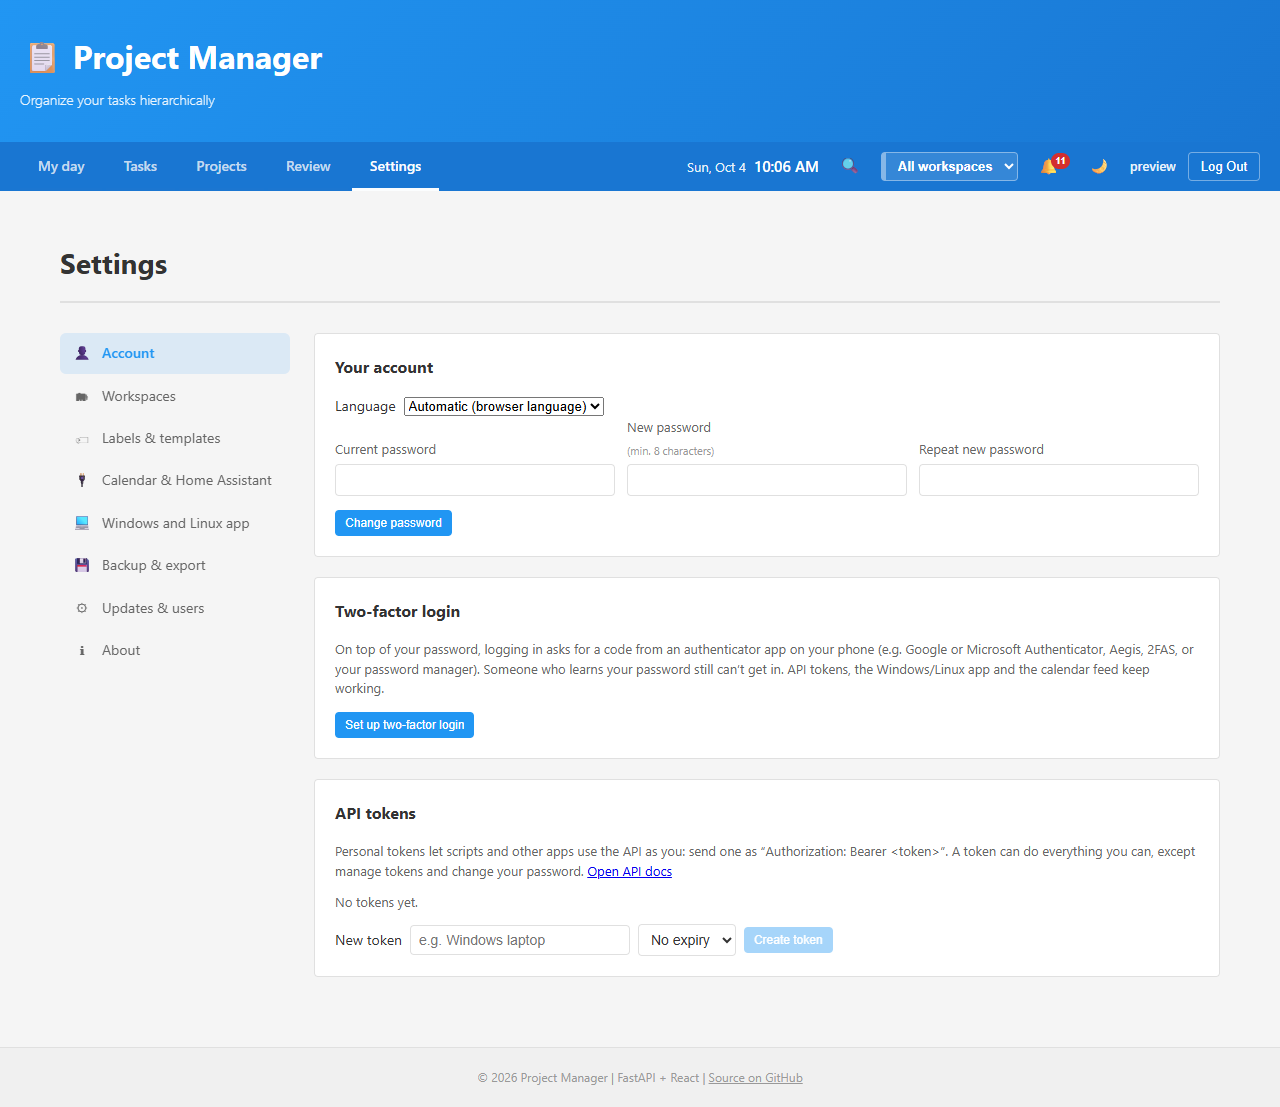
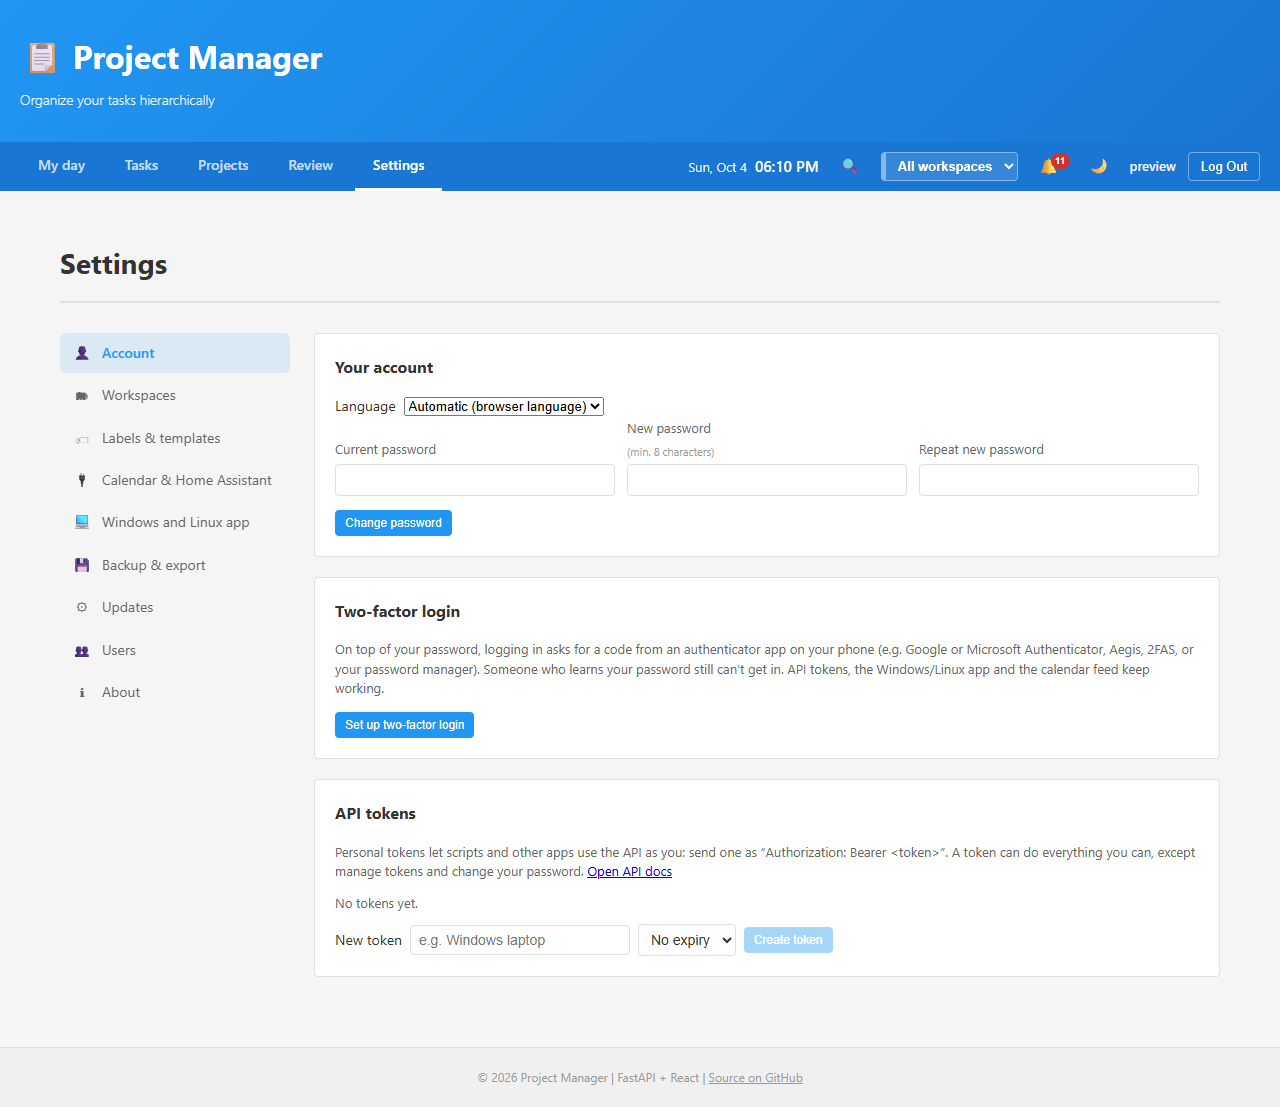
Settings: Updates and Users are two pages (v1.50.2, desktop v0.14.2)
Users is in the menu for admins only; the old /settings/system opens
Updates. Tests, docs (each mention points to the right page), screenshots.

diff --git a/frontend/src/components/Settings.js b/frontend/src/components/Settings.js
@@ -160,16 +160,12 @@ export function settingsPages({ admin = false, desktop = IS_DESKTOP } = {}) {
     },
     { key: 'backup', icon: '💾', label: t('Backup & export'), content: <BackupSettings /> },
     {
-      key: 'system',
+      key: 'updates',
       icon: '⚙',
-      label: admin ? t('Updates & users') : t('Updates'),
-      content: (
-        <>
-          <UpdatePanel />
-          {admin && <UserManagement />}
-        </>
-      ),
+      label: t('Updates'),
+      content: <UpdatePanel />,
     },
+    ...(admin ? [{ key: 'users', icon: '👥', label: t('Users'), content: <UserManagement /> }] : []),
     { key: 'about', icon: 'ℹ', label: t('About'), content: <About /> },
   ];
   // In the app its own settings (sync, updates, conflicts) come first.
@@ -180,7 +176,8 @@ function Settings() {
   const { currentUser } = useAuth();
   const { section } = useParams();
   const pages = settingsPages({ admin: !!currentUser?.is_admin });
-  const page = pages.find((p) => p.key === section);
+  // Old address of Updates (it held the users too until v1.50.2).
+  const page = pages.find((p) => p.key === (section === 'system' ? 'updates' : section));
   const menuRef = useRef(null);
   // Phones: the menu is a row of tabs to scroll -- keep the open one in view
   // (sideways only, the page stays where it is).
@@ -191,7 +188,7 @@ function Settings() {
       menu.scrollLeft = active.offsetLeft - menu.offsetLeft - (menu.clientWidth - active.offsetWidth) / 2;
     }
   }, [section]);
-  if (!page) return <Navigate to={`/settings/${pages[0].key}`} replace />;
+  if (!page || section === 'system') return <Navigate to={`/settings/${page ? page.key : pages[0].key}`} replace />;
 
   return (
     <div className="container">

diff --git a/frontend/src/components/Settings.test.js b/frontend/src/components/Settings.test.js
@@ -3,8 +3,8 @@ import { settingsPages } from './Settings';
 const keys = (opts) => settingsPages(opts).map((p) => p.key);
 
 test('Settings is split into sub-pages; the app puts its own first', () => {
-  expect(keys({ desktop: false })).toEqual(['account', 'workspaces', 'tasks', 'integrations', 'app', 'backup', 'system', 'about']);
-  expect(keys({ desktop: true })).toEqual(['app', 'account', 'workspaces', 'tasks', 'integrations', 'backup', 'system', 'about']);
-  expect(settingsPages({ admin: true }).find((p) => p.key === 'system').label).toBe('Updates & users');
-  expect(settingsPages({ admin: false }).find((p) => p.key === 'system').label).toBe('Updates');
+  expect(keys({ desktop: false })).toEqual(['account', 'workspaces', 'tasks', 'integrations', 'app', 'backup', 'updates', 'about']);
+  expect(keys({ desktop: true })).toEqual(['app', 'account', 'workspaces', 'tasks', 'integrations', 'backup', 'updates', 'about']);
+  // Users: a page of its own, for admins only
+  expect(keys({ desktop: false, admin: true })).toEqual(['account', 'workspaces', 'tasks', 'integrations', 'app', 'backup', 'updates', 'users', 'about']);
 });

diff --git a/frontend/src/desktop/platform.js b/frontend/src/desktop/platform.js
@@ -6,7 +6,7 @@ export const IS_DESKTOP = process.env.REACT_APP_TARGET === 'desktop';
 export const DESKTOP_OS = typeof navigator !== 'undefined' && /Linux/.test(navigator.userAgent) ? 'Linux' : 'Windows';
 
 // Kept in step with desktop/src-tauri/tauri.conf.json (desktop.test.js checks it).
-export const DESKTOP_VERSION = '0.14.1';
+export const DESKTOP_VERSION = '0.14.2';
 
 // The server API the app needs (GET /api/v1/sync/ came with 1.31.0).
 export const MIN_SERVER_VERSION = '1.31.0';

diff --git a/frontend/src/locales/de.js b/frontend/src/locales/de.js
@@ -787,7 +787,6 @@ const de = {
   "Update Task": "Aufgabe speichern",
   "Update {version}": "Update {version}",
   "Updates": "Updates",
-  "Updates & users": "Updates & Benutzer",
   "Updating…": "Wird aktualisiert …",
   "Upload backup…": "Backup hochladen …",
   "Upload failed: {error}": "Upload fehlgeschlagen: {error}",

diff --git a/tools/screenshots.py b/tools/screenshots.py
@@ -41,7 +41,8 @@ SHOTS = [
     ("tasks-desktop-dark", "/", (1280, 860), 1, "dark", False, None),
     ("tasks-filtered", "/?q=order", (1280, 700), 1, "light", False, None),
     ("projects-desktop", "/projects", (1280, 560), 1, "light", False, None),
-    ("settings-desktop", "/settings/system", (1280, 1100), 1, "light", True, "updates"),
+    ("settings-desktop", "/settings/updates", (1280, 900), 1, "light", True, "updates"),
+    ("settings-users-desktop", "/settings/users", (1280, 700), 1, "light", True, None),
     ("settings-account-desktop", "/settings/account", (1280, 1000), 1, "light", True, None),
     ("settings-phone", "/settings/integrations", (390, 760), 2, "light", False, None),
     ("tasks-phone", "/", (390, 844), 2, "light", False, None),

diff --git a/e2e/test_pages.py b/e2e/test_pages.py
@@ -74,5 +74,8 @@ def test_settings_sub_pages(make_page):
     assert page.locator(".settings-menu a.active").inner_text().endswith("Calendar & Home Assistant")
     page.goto("/settings/nonsense")
     page.wait_for_url("**/settings/account")
-    page.locator(".settings-menu").get_by_role("link", name="Updates & users").click()
+    page.locator(".settings-menu").get_by_role("link", name="Users").click()
     page.get_by_role("heading", name="User Management").wait_for()
+    assert page.locator(".update-panel, .settings-section", has_text="Check for updates").count() == 0  # its own page
+    page.goto("/settings/system")  # the old address of Updates
+    page.wait_for_url("**/settings/updates")

diff --git a/DEPLOYMENT.md b/DEPLOYMENT.md
@@ -12,11 +12,11 @@
 | Nginx | :80 — `/api/*` → backend, everything else → `frontend/build/` ([`deploy/nginx.conf`](deploy/nginx.conf)). Plain HTTP (the default): a private network, reached remotely over ZeroTier, which encrypts the traffic itself — see [HTTPS](#https) |
 | Backups | `/var/backups/project-manager/`, nightly at 03:15 via `/etc/cron.d/project-manager` and before every update; newest 3 of each kind kept (see [Backups & Export](#backups--export)) |
 
-**Production runs `main`.** Ongoing work happens on `dev`, which can be tried on the live instance via Settings → Updates & users → *Switch to dev*; merge to `main`, tag a release (see [docs/development.md](docs/development.md#versioning)) and switch back when ready to ship.
+**Production runs `main`.** Ongoing work happens on `dev`, which can be tried on the live instance via Settings → Updates → *Switch to dev*; merge to `main`, tag a release (see [docs/development.md](docs/development.md#versioning)) and switch back when ready to ship.
 
 ## Updating the Live Deployment
 
-### From the app (Settings → Updates & users)
+### From the app (Settings → Updates)
 
 Any logged-in user can pick a branch and **Check for updates**. Admins additionally get an **Update now** / **Switch to <branch>** button, which runs [`scripts/update.sh`](scripts/update.sh) in the background:
 
@@ -100,7 +100,7 @@ Until a device trusts it, the browser shows a warning you can click through. Com
 
 [`scripts/backup-db.sh`](scripts/backup-db.sh) writes a full `pg_dump` (custom format) of the app database to `/var/backups/project-manager/`, using the connection settings in `backend/.env`. It runs automatically:
 
-- before every update from **Settings → Updates & users** (label `before-update-from-<commit>`)
+- before every update from **Settings → Updates** (label `before-update-from-<commit>`)
 - before migrations when `install.sh` re-runs on an existing install (`before-reinstall`)
 - **every night at 03:15** (label `daily`), from `/etc/cron.d/project-manager` — written by `install.sh` and kept up to date by every update. Turn it off (and on) with **Settings → Backup & export → Back up automatically every night**; the cron job stays and just skips. Output goes to `/var/log/project-manager-backup.log`.
 
@@ -175,7 +175,7 @@ Once you've checked everything, remove the fallback with the `DROP DATABASE` com
 
 ## Fresh Install
 
-All options install without Docker: PostgreSQL, a Python venv under Supervisor, and Nginx serving the built frontend. The app lives in `/opt/project-manager` as a git checkout, so **Settings → Updates & users** works right away. The first account you register becomes the admin; after that, self-registration is closed — add users under **Settings → Updates & users → User Management**, or switch *Allow new registrations* on there.
+All options install without Docker: PostgreSQL, a Python venv under Supervisor, and Nginx serving the built frontend. The app lives in `/opt/project-manager` as a git checkout, so **Settings → Updates** works right away. The first account you register becomes the admin; after that, self-registration is closed — add users under **Settings → Users**, or switch *Allow new registrations* on there.
 
 ### Option A: New LXC from the Proxmox host (recommended)
 
@@ -252,7 +252,7 @@ pct exec 113 -- supervisorctl status
 
 **"Too many failed logins"**: after 5 wrong passwords (or two-factor codes) for an account from one address within 15 minutes, or 20 for any accounts, the login refuses for the rest of the 15 minutes; it lifts by itself. To lift it at once: `sudo -u postgres psql projectmanager -c "DELETE FROM login_failures"`. The address is the one Nginx passes on (`X-Real-IP`).
 
-**Locked out by two-factor login** (phone and recovery codes gone): another admin can switch it off under *Settings → Updates & users → User Management → Turn off 2FA*. The only admin: `sudo -u postgres psql projectmanager -c "UPDATE users SET totp_secret=NULL, totp_enabled_at=NULL, totp_last_step=NULL, totp_recovery=NULL WHERE username='NAME'"`.
+**Locked out by two-factor login** (phone and recovery codes gone): another admin can switch it off under *Settings → Users → Turn off 2FA*. The only admin: `sudo -u postgres psql projectmanager -c "UPDATE users SET totp_secret=NULL, totp_enabled_at=NULL, totp_last_step=NULL, totp_recovery=NULL WHERE username='NAME'"`.
 
 **Time zone**: "due today", overdue counts and the Home Assistant reminder go by the server's clock. LXCs often run on UTC; set yours with `timedatectl set-timezone Europe/Berlin` (in the container) and restart the app (`supervisorctl restart project-manager-backend` or the next update).
 

diff --git a/docs/user-guide.md b/docs/user-guide.md
@@ -33,7 +33,7 @@ Screenshots use sample data.
 
 Open the server's address in a browser (e.g. `http://192.168.100.114`). The
 **first account registered becomes the admin**; after that registration is
-closed and admins add further users under *Settings → Updates & users → User Management*
+closed and admins add further users under *Settings → Users*
 (or open registration there).
 
 The interface is in **English or German** (*Deutsch*): texts, dates,
@@ -508,7 +508,8 @@ to bookmark or send to someone.
 | **Calendar & Home Assistant** | the [calendar feed](#calendar-feed); [Home Assistant](home-assistant.md): your numbers, task lists and notifications there — fetched with an API token, or pushed over MQTT (each user opts in; admins set up the broker) |
 | **Windows and Linux app** | the download links, the one for your system marked; in the app itself (*Windows app* / *Linux app*, first in the menu): connection, sync and updates |
 | **Backup & export** | export a project (or everything) as a JSON file to import into another account or installation, or all tasks as a CSV file for Excel; admins also make and restore backups here |
-| **Updates & users** | the running version and updates; for admins also user management — see [For admins](#for-admins) |
+| **Updates** | the running version and updates — see [For admins](#for-admins) |
+| **Users** (admins) | user management: add, deactivate, make admin, set passwords, open registration — see [For admins](#for-admins) |
 | **About** | a few numbers, the version, the connection (and the CA certificate with HTTPS) |
 
 In the Windows/Linux app, two-factor login, API tokens and the calendar feed
@@ -562,11 +563,11 @@ starts full-screen with its own icon. It needs a connection to the server
 
 ## For admins
 
-- **Users** (*Settings → Updates & users → User Management*): add accounts, set passwords,
+- **Users** (*Settings → Users*): add accounts, set passwords,
   make admins, deactivate users (locked out at once), switch off someone's
   [two-factor login](#two-factor-login) (*2FA* badge → *Turn off 2FA*), and
   open or close self-registration.
-- **Updates** (*Settings → Updates & users*): shows the running version; admins
+- **Updates** (*Settings → Updates*): shows the running version; admins
   update or switch branches with a live log (backup first, then fetch,
   migrate, rebuild, restart).
 - **Backups** (*Settings → Backup & export*): a backup every night and
@@ -576,4 +577,6 @@ starts full-screen with its own icon. It needs a connection to the server
 Details — installing, HTTPS, restoring, moving to a new server — are in
 [DEPLOYMENT.md](../DEPLOYMENT.md).
 
-![Settings](screenshots/settings-desktop.png)
+| | |
+|---|---|
+| ![Settings → Updates](screenshots/settings-desktop.png) | ![Settings → Users](screenshots/settings-users-desktop.png) |

diff --git a/docs/development.md b/docs/development.md
@@ -150,10 +150,10 @@ project-manager/
 
 - `main` — production. **Production runs `main`.**
 - `dev` — integration branch for ongoing work.
-- To test `dev` on the live instance, use Settings → Updates & users → *Switch to dev*, then switch back to `main` once it's merged.
+- To test `dev` on the live instance, use Settings → Updates → *Switch to dev*, then switch back to `main` once it's merged.
 - Merge `dev` → `main` (fast-forward) and tag a release when a set of changes is ready to ship.
 
-The server only ever pulls from GitHub (Settings → Updates & users or the manual steps in [DEPLOYMENT.md](../DEPLOYMENT.md)) — never push to it or edit files there directly.
+The server only ever pulls from GitHub (Settings → Updates or the manual steps in [DEPLOYMENT.md](../DEPLOYMENT.md)) — never push to it or edit files there directly.
 
 ## Versioning
 

diff --git a/README.md b/README.md
@@ -138,7 +138,7 @@ bash -c "$(curl -fsSL https://raw.githubusercontent.com/Boisti13/project-manager
 
 Both install PostgreSQL, Nginx, Supervisor and Node.js (no Docker) and print
 the address. Register the first account to become admin; later updates are
-one click in *Settings → Updates & users*. Options, HTTPS, backups and moving to a
+one click in *Settings → Updates*. Options, HTTPS, backups and moving to a
 new server: [DEPLOYMENT.md](DEPLOYMENT.md).
 
 ## Documentation

diff --git a/CHANGELOG.md b/CHANGELOG.md
@@ -2,6 +2,11 @@
 
 All notable changes, newest first. Versions follow [semantic versioning](docs/development.md#versioning); each release is tagged `vX.Y.Z` on `main`.
 
+## v1.50.2 — 2026-10-04
+
+### Changed
+- **Settings → Updates** and **Settings → Users** are two pages now (they were one, *Updates & users*). *Users* is in the menu for admins only; the old address `/settings/system` opens *Updates*.
+
 ## v1.50.1 — 2026-10-04
 
 ### Fixed

diff --git a/desktop/CHANGELOG.md b/desktop/CHANGELOG.md
@@ -3,6 +3,11 @@
 Versions of the app for Windows and Linux (`desktop-v…` tags); the server has its own
 [CHANGELOG](../CHANGELOG.md).
 
+## v0.14.2 — 2026-10-04
+
+### Changed
+- *Settings → Updates* and *Settings → Users* are two pages (server v1.50.2 interface).
+
 ## v0.14.1 — 2026-10-04
 
 ### Fixed
